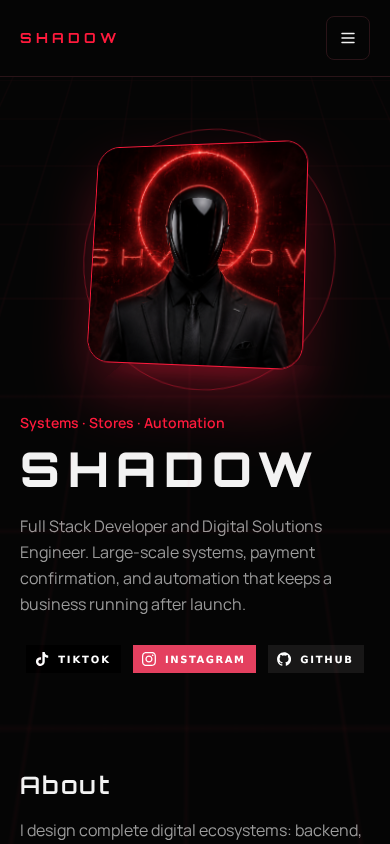
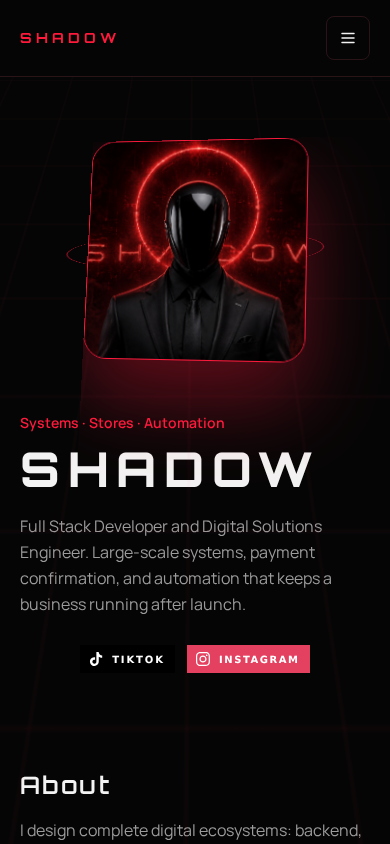
Export from Grok

Changed region(s): [[0.1846, 0.154, 0.8615, 0.4621], [0.1538, 0.7393, 0.8923, 0.8009], [0.0923, 0.7701, 0.1231, 0.8009]]

diff --git a/shadow-site/index.html b/shadow-site/index.html
@@ -8,7 +8,7 @@
   <style>
     :root { --bg:#050505; --surface:#101010; --fg:#f3f3f3; --muted:#9b9b9b; --red:#ff1a3c; --border:#2a1418; }
     * { box-sizing: border-box; margin: 0; padding: 0; }
-    body { background: var(--bg); color: var(--fg); font-family: Manrope, sans-serif; line-height: 1.65; }
+    body { background: var(--bg); color: var(--fg); font-family: Manrope, sans-serif; line-height: 1.65; overflow-x: hidden; }
     a { color: inherit; text-decoration: none; }
     .gridbg {
       position: fixed; inset: 0; pointer-events: none; opacity: .35;
@@ -30,9 +30,26 @@
     h2 { letter-spacing: .14em; font-size: 22px; margin-bottom: 14px; }
     .muted { color: var(--muted); }
     .stage { perspective: 900px; display: flex; justify-content: center; }
-    .card3d { position: relative; transform: rotateY(-18deg) rotateX(8deg); transform-style: preserve-3d; }
-    .avatar { width: 260px; height: 320px; object-fit: cover; object-position: top; border-radius: 24px; border: 1px solid var(--red); box-shadow: 0 30px 60px rgba(255,26,60,.28); }
-    .ring { position: absolute; inset: -22px; border: 1px solid rgba(255,26,60,.45); border-radius: 32px; transform: translateZ(-30px); }
+    .card3d { position: relative; transform-style: preserve-3d; animation: floaty 6s ease-in-out infinite; }
+    .ring { position: absolute; inset: -28px; border: 1px solid rgba(255,26,60,.7); border-radius: 50%; animation: orbit 7s linear infinite; }
+    .log { margin-top: 16px; border: 1px solid var(--border); border-radius: 16px; background: #000; padding: 16px; font-family: ui-monospace, monospace; font-size: 14px; }
+    .log p { opacity: .25; animation: log-cycle 8s linear infinite; }
+    .log p:nth-child(2) { animation-delay: 2s; }
+    .log p:nth-child(3) { animation-delay: 4s; }
+    .log p:nth-child(4) { animation-delay: 6s; }
+    @keyframes floaty {
+      0%, 100% { transform: rotateY(-24deg) rotateX(12deg) translateY(0); }
+      50% { transform: rotateY(18deg) rotateX(2deg) translateY(-16px); }
+    }
+    @keyframes orbit {
+      from { transform: rotateX(72deg) rotateZ(0deg); }
+      to { transform: rotateX(72deg) rotateZ(360deg); }
+    }
+    @keyframes log-cycle {
+      0%, 12% { opacity: .25; color: #9b9b9b; }
+      18%, 38% { opacity: 1; color: #ff1a3c; }
+      48%, 100% { opacity: .35; color: #f3f3f3; }
+    }
     section { padding: 34px 0; }
     .cards, .flow { display: grid; gap: 14px; }
     .box { background: rgba(16,16,16,.92); border: 1px solid var(--border); border-radius: 16px; padding: 20px; }
@@ -97,7 +114,13 @@
 
     <section id="flow">
       <h2>Automation</h2>
-      <p class="muted">One pipeline. The order does not wait for someone to copy it by hand.</p>
+      <p class="muted">The signal moves on its own. Nothing waits to be copied by hand.</p>
+      <div class="log">
+        <p>webhook received · order #1842</p>
+        <p>n8n route · payment gate</p>
+        <p>payment confirmed · status locked</p>
+        <p>store + mail updated · done</p>
+      </div>
       <div class="flow" style="margin-top:18px; perspective:1000px">
         <article class="box"><p class="num">01</p><h3>Trigger</h3><p class="muted">Form, order, or webhook hits the system.</p></article>
         <article class="box"><p class="num">02</p><h3>Route</h3><p class="muted">n8n or a custom script decides the next step.</p></article>

diff --git a/src/routes/index.tsx b/src/routes/index.tsx
@@ -176,8 +176,7 @@ function Home() {
 
           <div className="order-1 flex justify-center md:order-2" style={{ perspective: "1100px" }}>
             <div className="float-card relative">
-              <div className="orbit absolute -inset-10 rounded-full border border-primary/70" />
-              <div className="absolute -inset-16 rounded-full border border-primary/30" style={{ transform: "rotateX(72deg)" }} />
+              <div className="orbit absolute -inset-4 rounded-full border border-primary/70 md:-inset-10" />
               <img
                 src="/shadow.jpg"
                 alt="SHADOW"
@@ -202,7 +201,13 @@ function Home() {
 
         <section id="flow" className="mx-auto max-w-5xl px-5 py-12">
           <h2 className="font-display text-2xl tracking-widest">Automation</h2>
-          <p className="mt-3 max-w-xl text-sm text-muted">One pipeline. The order does not wait for someone to copy it by hand.</p>
+          <p className="mt-3 max-w-xl text-sm text-muted">The signal moves on its own. Nothing waits to be copied by hand.</p>
+          <div className="mt-6 rounded-card border border-border bg-black/60 p-4 font-mono text-sm">
+            <p className="log-line">webhook received · order #1842</p>
+            <p className="log-line">n8n route · payment gate</p>
+            <p className="log-line">payment confirmed · status locked</p>
+            <p className="log-line">store + mail updated · done</p>
+          </div>
           <div className="relative mt-8">
             <div className="absolute left-6 right-6 top-8 hidden h-0.5 bg-primary/40 md:block">
               <span className="packet absolute top-1/2 size-3.5 -translate-y-1/2 rounded-full bg-primary shadow-[0_0_18px_#ff1a3c]" />

diff --git a/src/styles.css b/src/styles.css
@@ -13,11 +13,12 @@
 }
 
 @layer base {
-  html { scroll-behavior: smooth; }
+  html { scroll-behavior: smooth; overflow-x: hidden; }
   body {
     background: var(--color-bg);
     color: var(--color-fg);
     font-family: var(--font-sans);
+    overflow-x: hidden;
   }
   button:not(:disabled),
   [role="button"]:not(:disabled) { cursor: pointer; }
@@ -55,7 +56,15 @@
   92% { opacity: 1; }
   100% { left: calc(100% - 14px); opacity: 0; }
 }
-@keyframes pulse-node {
-  0%, 100% { box-shadow: 0 16px 30px rgba(0, 0, 0, 0.4); }
-  40% { box-shadow: 0 0 0 1px rgba(255, 26, 60, 0.8), 0 18px 40px rgba(255, 26, 60, 0.25); }
+.log-line { opacity: 0.25; animation: log-cycle 8s linear infinite; }
+.log-line:nth-child(2) { animation-delay: 2s; }
+.log-line:nth-child(3) { animation-delay: 4s; }
+.log-line:nth-child(4) { animation-delay: 6s; }
+@keyframes log-cycle {
+  0%, 12% { opacity: 0.25; color: #9b9b9b; }
+  18%, 38% { opacity: 1; color: #ff1a3c; }
+  48%, 100% { opacity: 0.35; color: #f3f3f3; }
+}
+@media (prefers-reduced-motion: reduce) {
+  .log-line { animation: none !important; opacity: 1; }
 }
